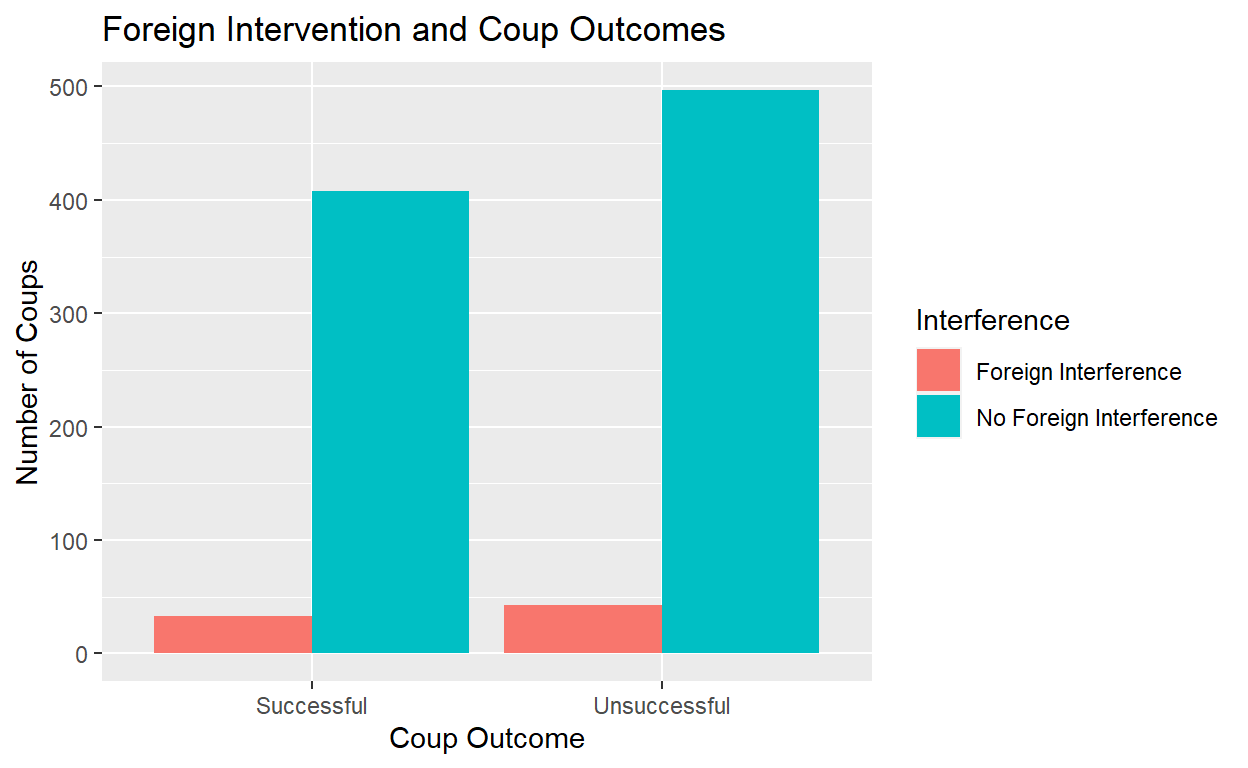
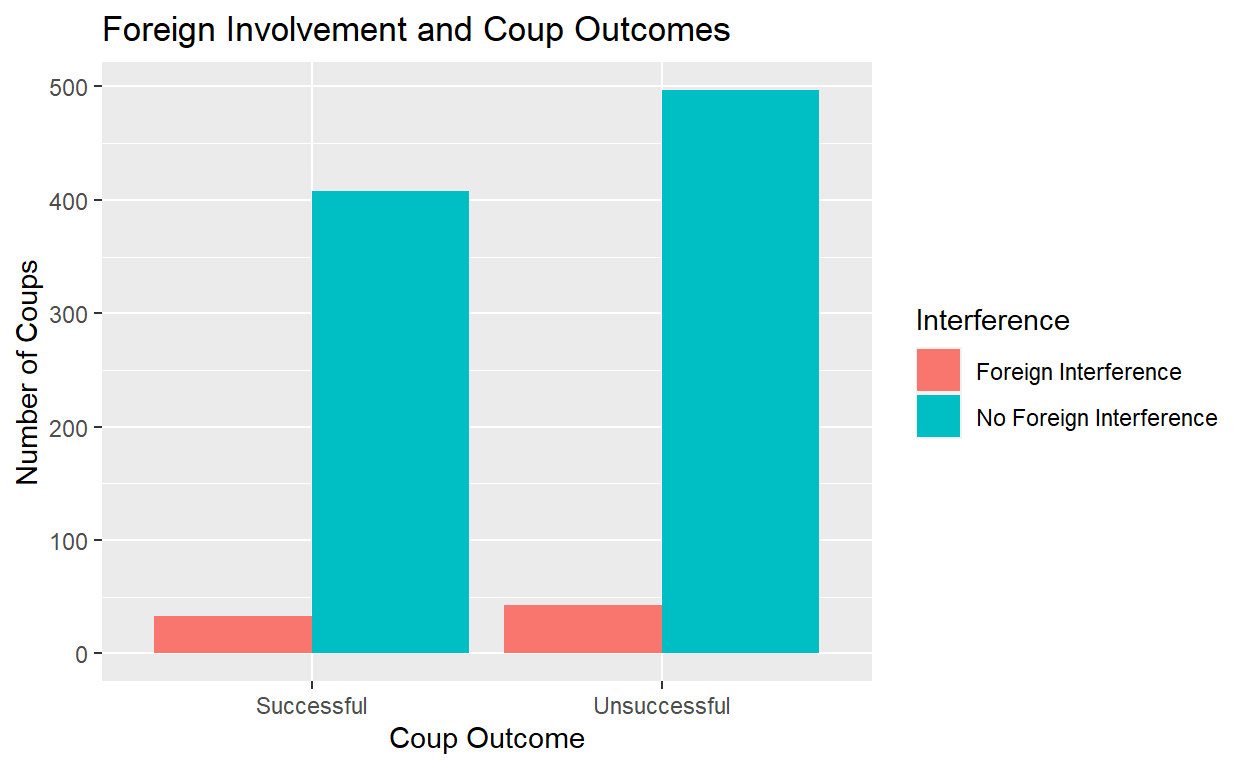
Commit

Changed region(s): [[0.1875, 0.0, 0.5938, 0.0625]]

diff --git a/index.html b/index.html
@@ -115,7 +115,7 @@ code span.wa { color: #5e5e5e; font-style: italic; } /* Warning */
   <!--/radix_placeholder_rmarkdown_metadata-->
   
   <script type="text/json" id="radix-resource-manifest">
-  {"type":"character","attributes":{},"value":["FinalProjectCoupData.csv","index_files/anchor-4.2.2/anchor.min.js","index_files/bowser-1.9.3/bowser.min.js","index_files/distill-2.2.21/template.v2.js","index_files/figure-html5/unnamed-chunk-2-1.png","index_files/FinalProjectCoupData.csv","index_files/header-attrs-2.17/header-attrs.js","index_files/header-attrs-2.24/header-attrs.js","index_files/jquery-3.6.0/jquery-3.6.0.js","index_files/jquery-3.6.0/jquery-3.6.0.min.js","index_files/jquery-3.6.0/jquery-3.6.0.min.map","index_files/popper-2.6.0/popper.min.js","index_files/tippy-6.2.7/tippy-bundle.umd.min.js","index_files/tippy-6.2.7/tippy-light-border.css","index_files/tippy-6.2.7/tippy.css","index_files/tippy-6.2.7/tippy.umd.min.js","index_files/webcomponents-2.0.0/webcomponents.js"]}
+  {"type":"character","attributes":{},"value":["FinalProjectCoupData.csv","index_files/anchor-4.2.2/anchor.min.js","index_files/bowser-1.9.3/bowser.min.js","index_files/distill-2.2.21/template.v2.js","index_files/figure-html5/unnamed-chunk-2-1.png","index_files/figure-html5/unnamed-chunk-4-1.png","index_files/FinalProjectCoupData.csv","index_files/header-attrs-2.17/header-attrs.js","index_files/header-attrs-2.24/header-attrs.js","index_files/jquery-3.6.0/jquery-3.6.0.js","index_files/jquery-3.6.0/jquery-3.6.0.min.js","index_files/jquery-3.6.0/jquery-3.6.0.min.map","index_files/popper-2.6.0/popper.min.js","index_files/tippy-6.2.7/tippy-bundle.umd.min.js","index_files/tippy-6.2.7/tippy-light-border.css","index_files/tippy-6.2.7/tippy.css","index_files/tippy-6.2.7/tippy.umd.min.js","index_files/webcomponents-2.0.0/webcomponents.js"]}
   </script>
   <!--radix_placeholder_navigation_in_header-->
   <!--/radix_placeholder_navigation_in_header-->
@@ -1527,9 +1527,10 @@ code span.wa { color: #5e5e5e; font-style: italic; } /* Warning */
 <span><span class='va'>coup_data</span> <span class='op'>&lt;-</span> <span class='fu'><a href='https://rdrr.io/r/utils/read.table.html'>read.csv</a></span><span class='op'>(</span><span class='st'>"FinalProjectCoupData.csv"</span><span class='op'>)</span></span></code></pre>
 </div>
 </div>
+<h2 id="foreign-involvement-and-coup-outcome-bar-graph">Foreign Involvement and Coup Outcome Bar Graph</h2>
 <div class="layout-chunk" data-layout="l-body">
 <div class="sourceCode">
-<pre class="sourceCode r"><code class="sourceCode r"><span><span class='va'>coup_set</span> <span class='op'>&lt;-</span> <span class='va'>coup_data</span> <span class='op'>|&gt;</span></span>
+<pre class="sourceCode r"><code class="sourceCode r"><span><span class='va'>coup_data</span> <span class='op'>&lt;-</span> <span class='va'>coup_data</span> <span class='op'>|&gt;</span></span>
 <span>  <span class='fu'><a href='https://dplyr.tidyverse.org/reference/mutate.html'>mutate</a></span><span class='op'>(</span></span>
 <span>    Outcome <span class='op'>=</span> <span class='fu'><a href='https://dplyr.tidyverse.org/reference/if_else.html'>if_else</a></span><span class='op'>(</span><span class='va'>realized</span> <span class='op'>==</span><span class='fl'>1</span>, </span>
 <span>                      <span class='st'>"Successful"</span>,</span>
@@ -1541,21 +1542,148 @@ code span.wa { color: #5e5e5e; font-style: italic; } /* Warning */
 <span>  <span class='fu'><a href='https://dplyr.tidyverse.org/reference/group_by.html'>group_by</a></span><span class='op'>(</span><span class='va'>Outcome</span>, <span class='va'>Interference</span><span class='op'>)</span></span>
 <span></span>
 <span><span class='va'>coup_plot</span> <span class='op'>&lt;-</span> <span class='fu'><a href='https://ggplot2.tidyverse.org/reference/ggplot.html'>ggplot</a></span><span class='op'>(</span></span>
-<span>  data <span class='op'>=</span> <span class='va'>coup_set</span>, mapping <span class='op'>=</span> <span class='fu'><a href='https://ggplot2.tidyverse.org/reference/aes.html'>aes</a></span><span class='op'>(</span>x <span class='op'>=</span> <span class='va'>Outcome</span>, fill <span class='op'>=</span> <span class='va'>Interference</span></span>
+<span>  data <span class='op'>=</span> <span class='va'>coup_data</span>, mapping <span class='op'>=</span> <span class='fu'><a href='https://ggplot2.tidyverse.org/reference/aes.html'>aes</a></span><span class='op'>(</span>x <span class='op'>=</span> <span class='va'>Outcome</span>, fill <span class='op'>=</span> <span class='va'>Interference</span></span>
 <span>                                 <span class='op'>)</span></span>
 <span><span class='op'>)</span> <span class='op'>+</span> </span>
 <span>  <span class='fu'><a href='https://ggplot2.tidyverse.org/reference/geom_bar.html'>geom_bar</a></span><span class='op'>(</span>position <span class='op'>=</span> <span class='st'>"dodge"</span><span class='op'>)</span> <span class='op'>+</span></span>
 <span>  <span class='fu'><a href='https://ggplot2.tidyverse.org/reference/labs.html'>labs</a></span><span class='op'>(</span></span>
 <span>    x <span class='op'>=</span> <span class='st'>"Coup Outcome"</span>,</span>
 <span>    y <span class='op'>=</span> <span class='st'>"Number of Coups"</span>,</span>
-<span>    title <span class='op'>=</span> <span class='st'>"Foreign Intervention and Coup Outcomes"</span></span>
+<span>    title <span class='op'>=</span> <span class='st'>"Foreign Involvement and Coup Outcomes"</span></span>
 <span>  <span class='op'>)</span></span>
 <span></span>
 <span><span class='va'>coup_plot</span></span></code></pre>
 </div>
 <p><img src="index_files/figure-html5/unnamed-chunk-2-1.png" width="624" /></p>
 </div>
-<div class="sourceCode" id="cb1"><pre class="sourceCode r distill-force-highlighting-css"><code class="sourceCode r"></code></pre></div>
+<h2 id="table-for-number-of-successfulunsuccessful-coups-by-type">Table for Number of Successful/Unsuccessful Coups by Type</h2>
+<div class="layout-chunk" data-layout="l-body">
+<div class="sourceCode">
+<pre class="sourceCode r"><code class="sourceCode r"><span><span class='va'>coup_count</span> <span class='op'>&lt;-</span> <span class='va'>coup_data</span> <span class='op'>|&gt;</span></span>
+<span>  <span class='fu'><a href='https://dplyr.tidyverse.org/reference/count.html'>count</a></span><span class='op'>(</span><span class='va'>Outcome</span><span class='op'>)</span></span>
+<span></span>
+<span><span class='fu'>knitr</span><span class='fu'>::</span><span class='fu'><a href='https://rdrr.io/pkg/knitr/man/kable.html'>kable</a></span><span class='op'>(</span><span class='va'>coup_count</span>, col.names <span class='op'>=</span> <span class='fu'><a href='https://rdrr.io/r/base/c.html'>c</a></span><span class='op'>(</span><span class='st'>"Coup Outcome"</span>, <span class='st'>"Interference"</span>, <span class='st'>"Number of Coups"</span><span class='op'>)</span><span class='op'>)</span></span></code></pre>
+</div>
+<table>
+<thead>
+<tr class="header">
+<th style="text-align: left;">Coup Outcome</th>
+<th style="text-align: left;">Interference</th>
+<th style="text-align: right;">Number of Coups</th>
+</tr>
+</thead>
+<tbody>
+<tr class="odd">
+<td style="text-align: left;">Successful</td>
+<td style="text-align: left;">Foreign Interference</td>
+<td style="text-align: right;">33</td>
+</tr>
+<tr class="even">
+<td style="text-align: left;">Successful</td>
+<td style="text-align: left;">No Foreign Interference</td>
+<td style="text-align: right;">408</td>
+</tr>
+<tr class="odd">
+<td style="text-align: left;">Unsuccessful</td>
+<td style="text-align: left;">Foreign Interference</td>
+<td style="text-align: right;">43</td>
+</tr>
+<tr class="even">
+<td style="text-align: left;">Unsuccessful</td>
+<td style="text-align: left;">No Foreign Interference</td>
+<td style="text-align: right;">497</td>
+</tr>
+</tbody>
+</table>
+</div>
+<p>As shown by this table, there are 76 foreign backed coup attempts in this dataset, with 33 being successful and 43 being unsuccessful, for a success rate of 0.434. There are 905 non-foreign backed coup attempts, with 408 being successful and 497 unsuccessful, for a success rate of 0.4508. Thus, in this sampling, non foreign backed coups actually have a higher rate of success than foreign backed ones, contrary to my hypothesis. We shall further test this hypothesis by using differences in means of average treatment effect when taking multiple samples.</p>
+<h2 id="difference-in-means-and-treatment-effects">Difference in Means and Treatment Effects</h2>
+<div class="layout-chunk" data-layout="l-body">
+<div class="sourceCode">
+<pre class="sourceCode r"><code class="sourceCode r"><span><span class='va'>coup_means</span><span class='op'>&lt;-</span> <span class='va'>coup_data</span><span class='op'>|&gt;</span> </span>
+<span>  <span class='fu'><a href='https://dplyr.tidyverse.org/reference/group_by.html'>group_by</a></span><span class='op'>(</span><span class='va'>Interference</span><span class='op'>)</span><span class='op'>|&gt;</span> </span>
+<span>  <span class='fu'><a href='https://dplyr.tidyverse.org/reference/summarise.html'>summarize</a></span><span class='op'>(</span>realized_mean <span class='op'>=</span> <span class='fu'><a href='https://rdrr.io/r/base/mean.html'>mean</a></span><span class='op'>(</span><span class='va'>realized</span><span class='op'>)</span><span class='op'>)</span> <span class='op'>|&gt;</span> </span>
+<span>  <span class='fu'><a href='https://tidyr.tidyverse.org/reference/pivot_wider.html'>pivot_wider</a></span><span class='op'>(</span>names_from <span class='op'>=</span> <span class='va'>Interference</span>,</span>
+<span>              values_from <span class='op'>=</span> <span class='va'>realized_mean</span><span class='op'>)</span></span>
+<span></span>
+<span><span class='va'>coup_means</span></span></code></pre>
+</div>
+<pre><code># A tibble: 1 × 2
+  `Foreign Interference` `No Foreign Interference`
+                   &lt;dbl&gt;                     &lt;dbl&gt;
+1                  0.434                     0.451</code></pre>
+<div class="sourceCode">
+<pre class="sourceCode r"><code class="sourceCode r"><span><span class='kw'><a href='https://rdrr.io/r/base/library.html'>library</a></span><span class='op'>(</span><span class='va'><a href='https://github.com/tidymodels/infer'>infer</a></span><span class='op'>)</span> </span>
+<span></span>
+<span><span class='va'>coup_boots</span><span class='op'>&lt;-</span> <span class='va'>coup_data</span> <span class='op'>|&gt;</span> </span>
+<span>  <span class='fu'><a href='https://infer.tidymodels.org/reference/rep_sample_n.html'>rep_slice_sample</a></span><span class='op'>(</span>prop<span class='op'>=</span> <span class='fl'>1</span>,replace<span class='op'>=</span> <span class='cn'>TRUE</span>,reps<span class='op'>=</span> <span class='fl'>1000</span><span class='op'>)</span> <span class='op'>|&gt;</span> </span>
+<span>  <span class='fu'><a href='https://dplyr.tidyverse.org/reference/group_by.html'>group_by</a></span><span class='op'>(</span><span class='va'>replicate</span>, <span class='va'>Interference</span><span class='op'>)</span> <span class='op'>|&gt;</span> </span>
+<span>  <span class='fu'><a href='https://dplyr.tidyverse.org/reference/summarise.html'>summarize</a></span><span class='op'>(</span>realized_mean <span class='op'>=</span> <span class='fu'><a href='https://rdrr.io/r/base/mean.html'>mean</a></span><span class='op'>(</span><span class='va'>realized</span><span class='op'>)</span><span class='op'>)</span> <span class='op'>|&gt;</span> </span>
+<span>  <span class='fu'><a href='https://tidyr.tidyverse.org/reference/pivot_wider.html'>pivot_wider</a></span><span class='op'>(</span>names_from <span class='op'>=</span> <span class='va'>Interference</span>,</span>
+<span>              values_from <span class='op'>=</span> <span class='va'>realized_mean</span><span class='op'>)</span> <span class='op'>|&gt;</span> </span>
+<span>  <span class='fu'><a href='https://dplyr.tidyverse.org/reference/mutate.html'>mutate</a></span><span class='op'>(</span>ATE <span class='op'>=</span> <span class='va'>`Foreign Interference`</span> <span class='op'>-</span> <span class='va'>`No Foreign Interference`</span><span class='op'>)</span> </span>
+<span></span>
+<span><span class='va'>coup_boots</span></span></code></pre>
+</div>
+<pre><code># A tibble: 1,000 × 4
+# Groups:   replicate [1,000]
+   replicate `Foreign Interference` `No Foreign Interference`      ATE
+       &lt;int&gt;                  &lt;dbl&gt;                     &lt;dbl&gt;    &lt;dbl&gt;
+ 1         1                  0.417                     0.447 -0.0300 
+ 2         2                  0.403                     0.489 -0.0861 
+ 3         3                  0.434                     0.411  0.0228 
+ 4         4                  0.328                     0.450 -0.122  
+ 5         5                  0.442                     0.461 -0.0197 
+ 6         6                  0.384                     0.454 -0.0702 
+ 7         7                  0.379                     0.421 -0.0413 
+ 8         8                  0.434                     0.474 -0.0407 
+ 9         9                  0.438                     0.444 -0.00548
+10        10                  0.444                     0.476 -0.0316 
+# ℹ 990 more rows</code></pre>
+<div class="sourceCode">
+<pre class="sourceCode r"><code class="sourceCode r"><span><span class='va'>ate_ci_95</span> <span class='op'>&lt;-</span> <span class='va'>coup_boots</span> <span class='op'>|&gt;</span></span>
+<span>  <span class='fu'><a href='https://dplyr.tidyverse.org/reference/select.html'>select</a></span><span class='op'>(</span><span class='va'>replicate</span>, <span class='va'>ATE</span><span class='op'>)</span> <span class='op'>|&gt;</span></span>
+<span>  <span class='fu'><a href='https://infer.tidymodels.org/reference/get_confidence_interval.html'>get_ci</a></span><span class='op'>(</span>level <span class='op'>=</span> <span class='fl'>0.95</span>, type <span class='op'>=</span> <span class='st'>"percentile"</span><span class='op'>)</span></span>
+<span></span>
+<span><span class='va'>ate_ci_95</span></span></code></pre>
+</div>
+<pre><code># A tibble: 1 × 2
+  lower_ci upper_ci
+     &lt;dbl&gt;    &lt;dbl&gt;
+1   -0.127    0.114</code></pre>
+<div class="sourceCode">
+<pre class="sourceCode r"><code class="sourceCode r"><span><span class='va'>coup_boots</span><span class='op'>|&gt;</span> <span class='fu'><a href='https://ggplot2.tidyverse.org/reference/ggplot.html'>ggplot</a></span><span class='op'>(</span></span>
+<span>  mapping <span class='op'>=</span> <span class='fu'><a href='https://ggplot2.tidyverse.org/reference/aes.html'>aes</a></span><span class='op'>(</span>x<span class='op'>=</span> <span class='va'>ATE</span><span class='op'>)</span><span class='op'>)</span><span class='op'>+</span> </span>
+<span>  <span class='fu'><a href='https://ggplot2.tidyverse.org/reference/geom_histogram.html'>geom_histogram</a></span><span class='op'>(</span><span class='fu'><a href='https://ggplot2.tidyverse.org/reference/aes.html'>aes</a></span><span class='op'>(</span>y<span class='op'>=</span> <span class='fu'><a href='https://ggplot2.tidyverse.org/reference/aes_eval.html'>after_stat</a></span><span class='op'>(</span><span class='va'>density</span><span class='op'>)</span><span class='op'>)</span>, binwidth <span class='op'>=</span> <span class='fl'>0.005</span><span class='op'>)</span> <span class='op'>+</span></span>
+<span>  <span class='fu'><a href='https://ggplot2.tidyverse.org/reference/geom_abline.html'>geom_vline</a></span><span class='op'>(</span>xintercept <span class='op'>=</span> <span class='fu'><a href='https://rdrr.io/r/base/unlist.html'>unlist</a></span><span class='op'>(</span><span class='va'>ate_ci_95</span><span class='op'>)</span>, color <span class='op'>=</span> <span class='st'>"orange"</span><span class='op'>)</span> <span class='op'>+</span></span>
+<span>  <span class='fu'><a href='https://ggplot2.tidyverse.org/reference/labs.html'>labs</a></span><span class='op'>(</span></span>
+<span>    x <span class='op'>=</span> <span class='st'>"Average Treatment Effect of Foreign Interference"</span>,</span>
+<span>    y <span class='op'>=</span> <span class='st'>"Density"</span>,</span>
+<span>    title <span class='op'>=</span> <span class='st'>"Bootstrapped ATE for Foreign Interference in Coups (95% Confidence Interval)"</span></span>
+<span>  <span class='op'>)</span> </span></code></pre>
+</div>
+<img src="index_files/figure-html5/unnamed-chunk-4-1.png" width="624" />
+<div class="sourceCode">
+<pre class="sourceCode r"><code class="sourceCode r"><span><span class='va'>coup_boots</span></span></code></pre>
+</div>
+<pre><code># A tibble: 1,000 × 4
+# Groups:   replicate [1,000]
+   replicate `Foreign Interference` `No Foreign Interference`      ATE
+       &lt;int&gt;                  &lt;dbl&gt;                     &lt;dbl&gt;    &lt;dbl&gt;
+ 1         1                  0.417                     0.447 -0.0300 
+ 2         2                  0.403                     0.489 -0.0861 
+ 3         3                  0.434                     0.411  0.0228 
+ 4         4                  0.328                     0.450 -0.122  
+ 5         5                  0.442                     0.461 -0.0197 
+ 6         6                  0.384                     0.454 -0.0702 
+ 7         7                  0.379                     0.421 -0.0413 
+ 8         8                  0.434                     0.474 -0.0407 
+ 9         9                  0.438                     0.444 -0.00548
+10        10                  0.444                     0.476 -0.0316 
+# ℹ 990 more rows</code></pre>
+</div>
+<p>Based on the bootstrapping of average treatment effect for foreign interference, there is no evidence that foreign interference increases the likelihood of success for a coup attempt. In the 95% confidence interval, the lower confidence interval is -0.133 (which means that foreign backing is correlated with a lower coup success rate), and the upper confidence interval is 0.096 (foreign backing is correlated with higher success rate). It would be plausible to expect an ATE anywhere within this range, including zero (foreign backing having no effect on success or failure).Therefore, it is inconclusive what kind of effect that foreign interference has on the success rate of coups. My hypothesis that foreign backing increases the likelihood of coup success is not backed by this data.</p>
+<div class="sourceCode" id="cb5"><pre class="sourceCode r distill-force-highlighting-css"><code class="sourceCode r"></code></pre></div>
 <!--radix_placeholder_article_footer-->
 <!--/radix_placeholder_article_footer-->
 </div>
